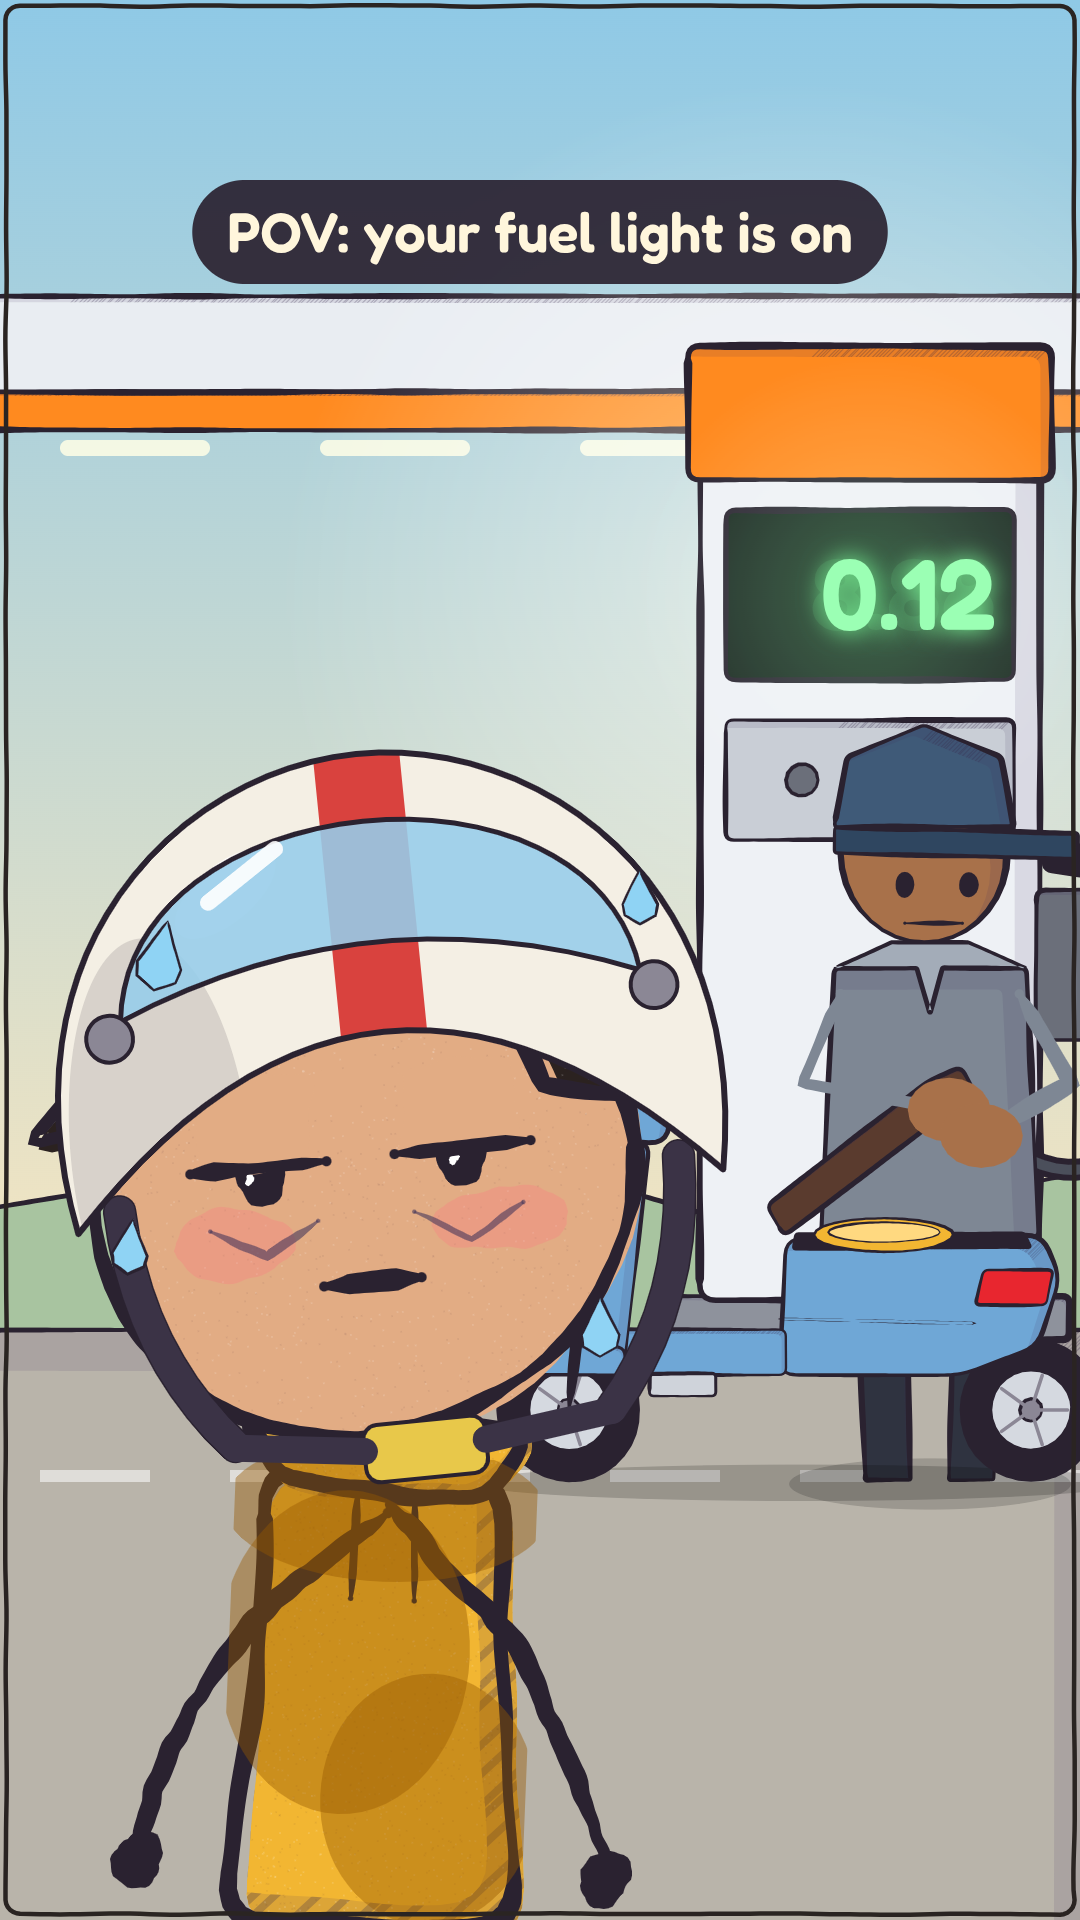
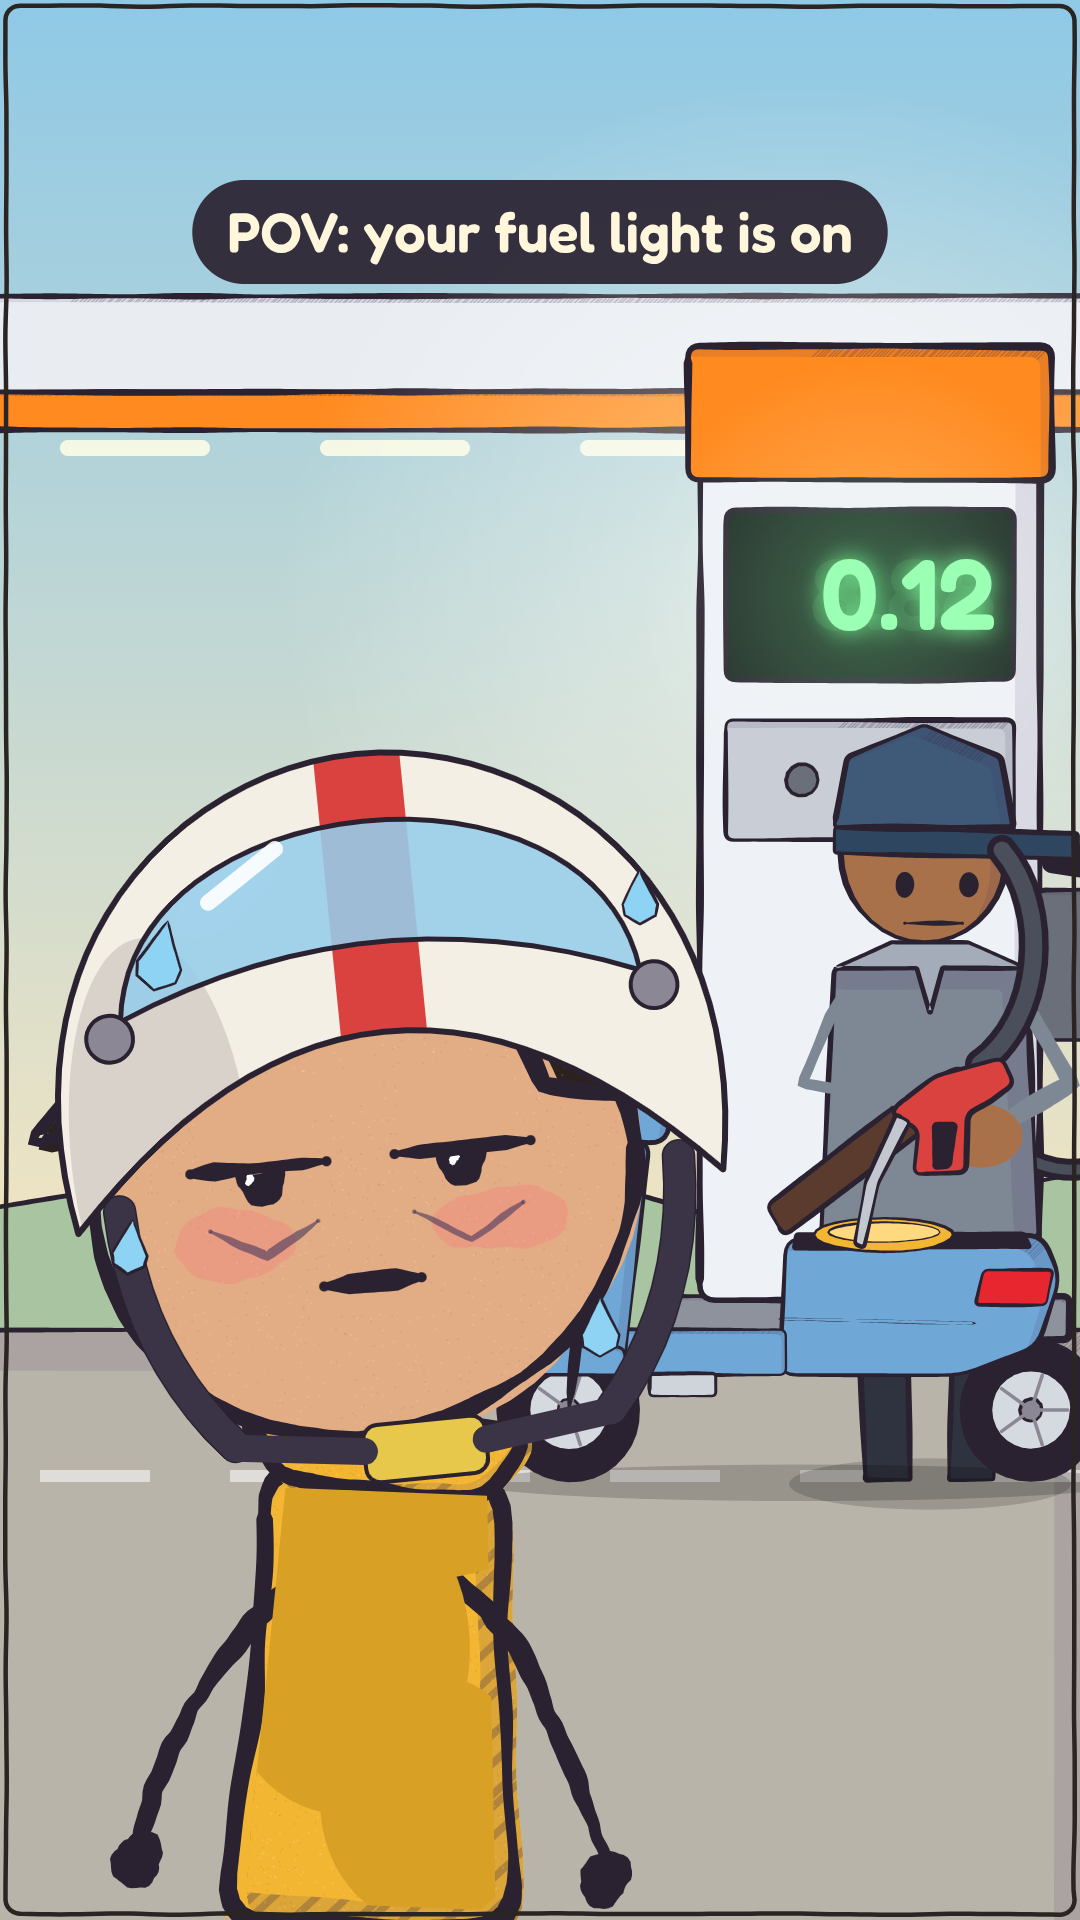
Tập 12 On Empty: key stills round 4 (owner fixes 1-5)

Changed region(s): [[0.2139, 0.75, 0.5194, 1.0], [0.275, 0.875, 0.4889, 1.0], [0.7944, 0.4375, 0.9778, 0.6562]]

diff --git a/episodes/21-next/film/stills.js b/episodes/21-next/film/stills.js
@@ -42,11 +42,16 @@ function bodyPt(P, lx, ly) {
   const { X, Y, sc, th } = P, vx = lx * sc, vy = -(ly - 38) * sc;
   return [X + vx * Math.cos(th) - vy * Math.sin(th), Y - 38 * sc + vx * Math.sin(th) + vy * Math.cos(th)];
 }
-// soaked shirt: dark wet patches + drips on the torso, clipped to the torso
+// opaque torso base: the hand-drawn fill slips off the ink at large scale, so lay a solid fill under the character first
+function torsoBase(P) {
+  const pts = [[-6.5, 62], [6.5, 62], [8, 37], [-8, 37]].map(([a, b]) => bodyPt(P, a, b));
+  ctx.save(); ctx.fillStyle = '#f2b632'; ctx.beginPath(); pts.forEach((q, i) => i ? ctx.lineTo(q[0], q[1]) : ctx.moveTo(q[0], q[1])); ctx.closePath(); ctx.fill(); ctx.restore();
+}
+// soaked shirt: solid darker wet patches + drips on the torso, clipped to the torso
 function wetShirt(P, amt = 1) {
-  const pts = [[-8.4, 63], [8.4, 63], [8.4, 36], [-8.4, 36]].map(([a, b]) => bodyPt(P, a, b));
+  const pts = [[-5.6, 61], [5.6, 61], [7, 38], [-7, 38]].map(([a, b]) => bodyPt(P, a, b));
   ctx.save(); ctx.beginPath(); pts.forEach((q, i) => i ? ctx.lineTo(q[0], q[1]) : ctx.moveTo(q[0], q[1])); ctx.closePath(); ctx.clip();
-  ctx.fillStyle = 'rgba(150,88,0,0.42)';
+  ctx.fillStyle = '#d9a026';
   for (const [lx, ly, rx, ry] of [[-2, 52, 7, 9], [3, 44, 6, 7], [0, 60, 9, 4]]) { const c = bodyPt(P, lx, ly); ctx.beginPath(); ctx.ellipse(c[0], c[1], rx * P.sc * amt, ry * P.sc * amt, P.th, 0, 7); ctx.fill(); }
   ctx.restore();
 }
@@ -231,6 +236,15 @@ function attendant(t, x, y, s, o = {}) {
   p.line([[hx - 3 * s, hy + 11 * s], [hx + 6 * s, hy + 11 * s]], 5, INK);
 }
 
+// fuel nozzle held in the attendant's hand (hx, hy), spout pointing down-left into the tank neck, short hose looping to the pump
+function nozzle(t, hx, hy) {
+  const p = spen(t, 77, 5);
+  ctx.save(); ctx.strokeStyle = INK; ctx.lineWidth = 30; ctx.lineCap = 'round'; ctx.beginPath(); ctx.moveTo(hx + 18, hy - 46); ctx.bezierCurveTo(hx + 80, hy - 90, hx + 90, hy - 200, hx + 40, hy - 260); ctx.stroke();
+  ctx.strokeStyle = '#4b4f5b'; ctx.lineWidth = 17; ctx.stroke(); ctx.restore();   // hose up toward the pump (right of frame)
+  p.part(roundPoly([[hx - 48, hy + 64], [hx - 44, hy + 20], [hx - 70, hy + 4], [hx - 66, hy - 4], [hx - 26, hy - 34], [hx + 40, hy - 52], [hx + 52, hy - 26], [hx + 28, hy - 8], [hx + 6, hy + 4], [hx + 4, hy + 62]], 8), '#d9423e', { shade: false, lw: 5 });   // body: grip + head
+  p.part(roundPoly([[hx - 66, hy + 4], [hx - 96, hy + 72], [hx - 108, hy + 134], [hx - 98, hy + 138], [hx - 84, hy + 74], [hx - 52, hy + 12]], 4), '#c3c8d0', { shade: false, lw: 4 });   // spout
+  p.part(roundPoly([[hx - 28, hy + 14], [hx - 6, hy + 14], [hx - 12, hy + 56], [hx - 28, hy + 58]], 4), '#2a2230', { shade: false, lw: 4 });   // trigger
+}
 let SEED = 1;
 // ---------- STILL 1 · HOOK (glance test) ----------
 function still1(t) {
@@ -247,7 +261,7 @@ function still1(t) {
   glowBlob(540, 640, 520, 'rgba(255,230,170,0.5)');
   // Steve, close-up, helmet on
   const s = 13, X = 540, hc0 = 610, Y = hc0 + 80 * s, shY = Y - 60 * s;
-  drawCharacter(ctx, 'steve', X, Y, s, { eyes: 'dot', eyeR: 'squint', lid: 0.3, brow: 'raised', mouth: 'teeth', fx: ['sweat'], look: 0, hair: 0, bags: 1,
+  drawCharacter(ctx, 'steve', X, Y, s, { eyes: 'dot', eyeR: 'squint', lid: 0.3, brow: 'raised', mouth: 'strain', fx: ['sweat'], look: 0, hair: 0, bags: 1,
     armL: armTo(X, shY, s, 118, 1010, [0, 5]), armR: armTo(X, shY, s, 962, 1010, [0, 5]) }, { frame: boilFrame(t) });
   const hc = headOf(X, Y, s);
   helmet([hc[0], hc[1]], s);
@@ -274,20 +288,20 @@ function still2(t) {
   // scooter parked behind-left of him, facing left, Snuggles clamped in the front basket
   scooter(t, 470, 1385, 0.6, { snug: { eyes: 'wide', lid: 0, mouth: 'line', look: 0.8, tail: 0.5, arm: 'down' } });
   // pump (right): display well above his head
-  pump(t, 600, 430, 360, 1010, '3.86');
+  pump(t, 600, 430, 360, 1010, '0.00');
   // Steve: slumped on one knee against the pump, cheek on it, both arms wrapped round it
   const s = 9.6, th = 0.85, GY = 1632, P = { X: 0, Y: GY, sc: s, th };
   P.X = 660 - 42 * s * Math.sin(th); P.Y = GY - 0 * s;
   const hy = GY - 38 * s - 42 * s * Math.cos(th); P.Y = GY;
   ctx.fillStyle = 'rgba(0,0,0,0.16)'; ctx.beginPath(); ctx.ellipse(520, 1436, 320, 24, 0, 0, 7); ctx.fill();
-  const sh = bodyPt(P, 0, 60);
+  torsoBase(P);
   drawCharacter(ctx, 'steve', P.X, P.Y, s, { eyes: 'happy', lid: 0, brow: 'raised', mouth: 'grin', fx: ['sweat', 'tears_small'], look: 0, hair: 0, bags: 0, lean: th * 180 / Math.PI, tilt: 8, noShadow: true,
     legPts: [[[0, 38], [17, 25], [-11, 22.6], [-15, 24.6]], [[0, 38], [23, 35], [21, 22.6], [28, 22.4]]],
-    armL: handLocal(P, [948, 1000]), armR: handLocal(P, [953, 1195]) }, { frame: boilFrame(t) });
+    armL: handLocal(P, [912, 1012]), armR: handLocal(P, [916, 1186]) }, { frame: boilFrame(t) });
   wetShirt(P);
   const hc = bodyPt(P, 0, 80);
   helmet([hc[0] + 4, hc[1] - 2], s, th + 0.08);
-  fist(948, 1000, 0.55); fist(953, 1195, 0.55);
+  fist(912, 1012, 0.55); fist(916, 1186, 0.55);
   { const dp = spen(t, 31); drop(dp, 520, 800, 24, 0.3); drop(dp, 840, 800, 20, -0.3); drop(dp, 560, 1180, 22, 0); drop(dp, 400, 960, 20, 0.2); drop(dp, 840, 1280, 22, 0); }
   ctx.restore();
   title();
@@ -305,8 +319,10 @@ function still3(t) {
   attendant(t, 930, 1480, 6.4, { dx: -6, part: 'body' });
   scooter(t, 800, 1480, 0.7, { seat: 0.65 });
   attendant(t, 930, 1480, 6.4, { hand: [962, 1110], dx: -6, part: 'arms' });
+  nozzle(t, 962, 1110);
   // Steve chest-up, face ~50 % of the width, slightly left; torso runs off the bottom, no legs
   const s = 18, th = 0.04, P = placeSteve(400, 1150, s, th);
+  torsoBase(P);
   drawCharacter(ctx, 'steve', P.X, P.Y, s, { expr: 'dead_inside', lid: 0.62, brow: undefined, mouth: 'line', fx: ['sweat'], look: 0, hair: 0, bags: 1, lean: th * 180 / Math.PI, tilt: -8, headDy: -1, noShadow: true, legPts: [] }, { frame: boilFrame(t) });
   wetShirt(P, 1);
   const hc = bodyPt(P, 0, 79);

diff --git a/episodes/21-next/film/lib/cast_v2.js b/episodes/21-next/film/lib/cast_v2.js
@@ -293,6 +293,12 @@ function mouth(pen, cx, cy, kind = 'line', k = 1, ink = INK) {
       pen.clipTo(path, () => { pen.fill(P(rrectPts(0, 0.2, 11, 2.6, 0.6, 3)), WHITE); pen.dot(cx, cy - 5 * k, 3 * k, 1.8 * k, TONGUE); });
       pen.stroke(path, lw * 0.85, ink); break;
     }
+    case 'strain': {   // forced calm: teeth showing in a strained smile (corners lifted)
+      const g = P([...curve([-5.4, 0.7], [0, 0.2], [5.4, 0.7]), ...curve([5.4, 0.7], [0, -5.6], [-5.4, 0.7]).slice(1)]);
+      const path = pen.part(g, WHITE, { shade: false, stroke: null });
+      pen.clipTo(path, () => { L([[-5, -1.6], [5, -1.6]], lw * 0.4); for (const x of [-2.6, 0, 2.6]) L([[x, 0.8], [x, -3.4]], lw * 0.4); });
+      pen.stroke(path, lw * 0.85, ink); break;
+    }
     case 'teeth': S(rrectPts(0, 0, 11, 4.8, 2, 4), WHITE); L([[-5, 0], [5, 0]], lw * 0.5); for (const x of [-2.6, 0, 2.6]) L([[x, 2], [x, -2]], lw * 0.5); break;
     case 'tongue': L(curve([-4, 0.6], [0, -1.6], [4, 0.6])); S([[0.6, -0.4], [3.4, -0.2], ...curve([3.4, -0.2], [3.4, -4.6], [2, -4.4]).slice(1), ...curve([2, -4.4], [0.6, -4.2], [0.6, -0.4]).slice(1)], TONGUE); break;
     case 'evil': {
